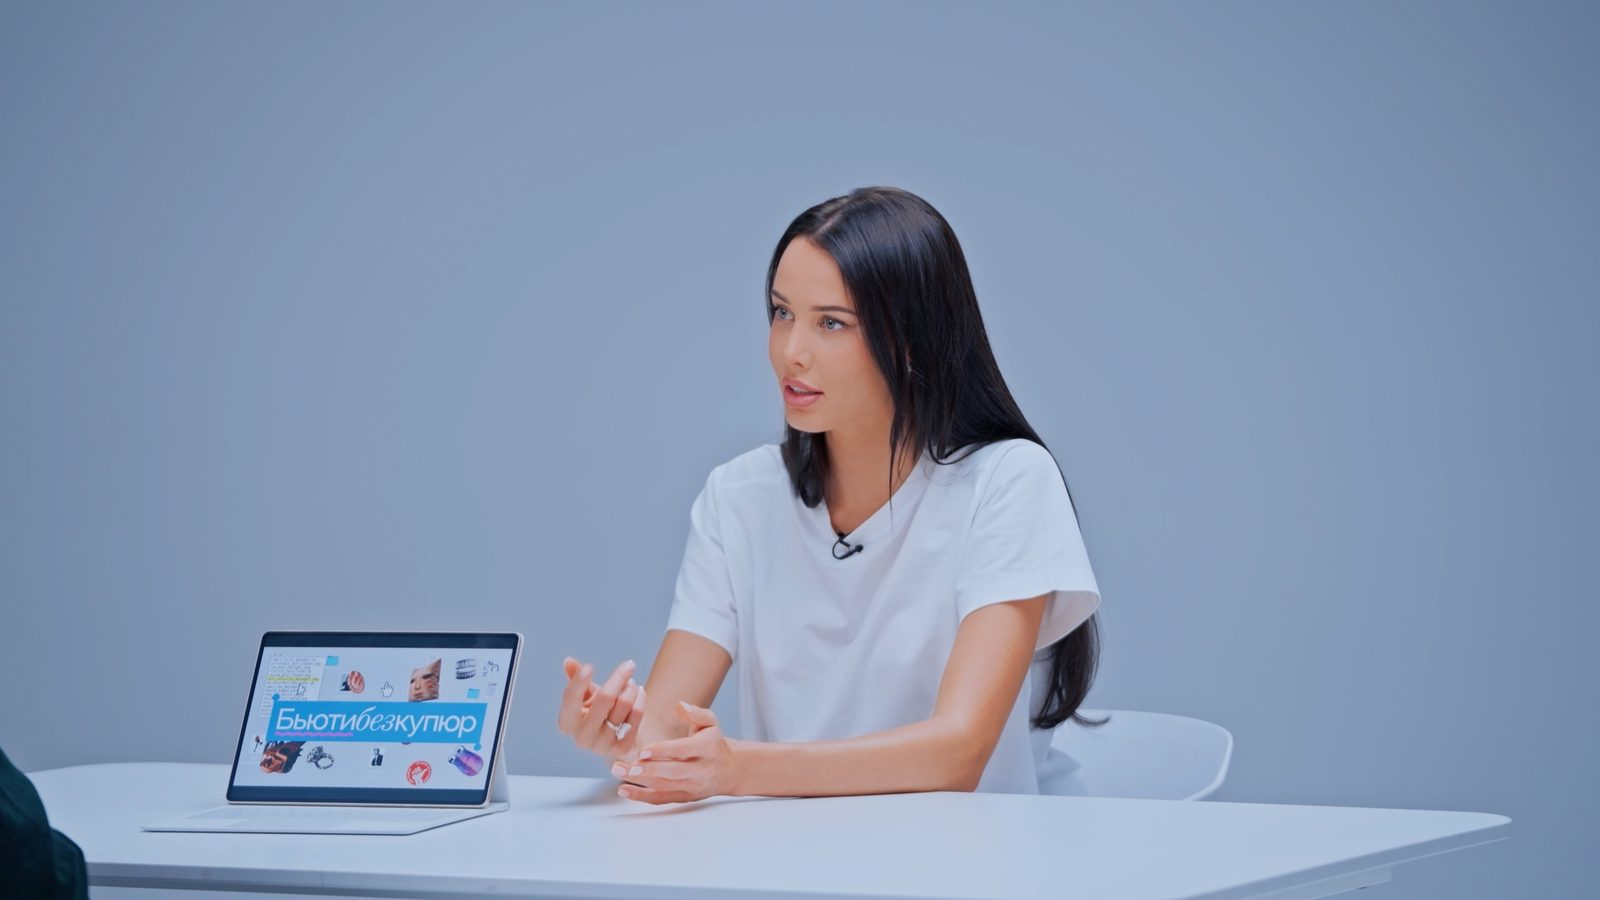
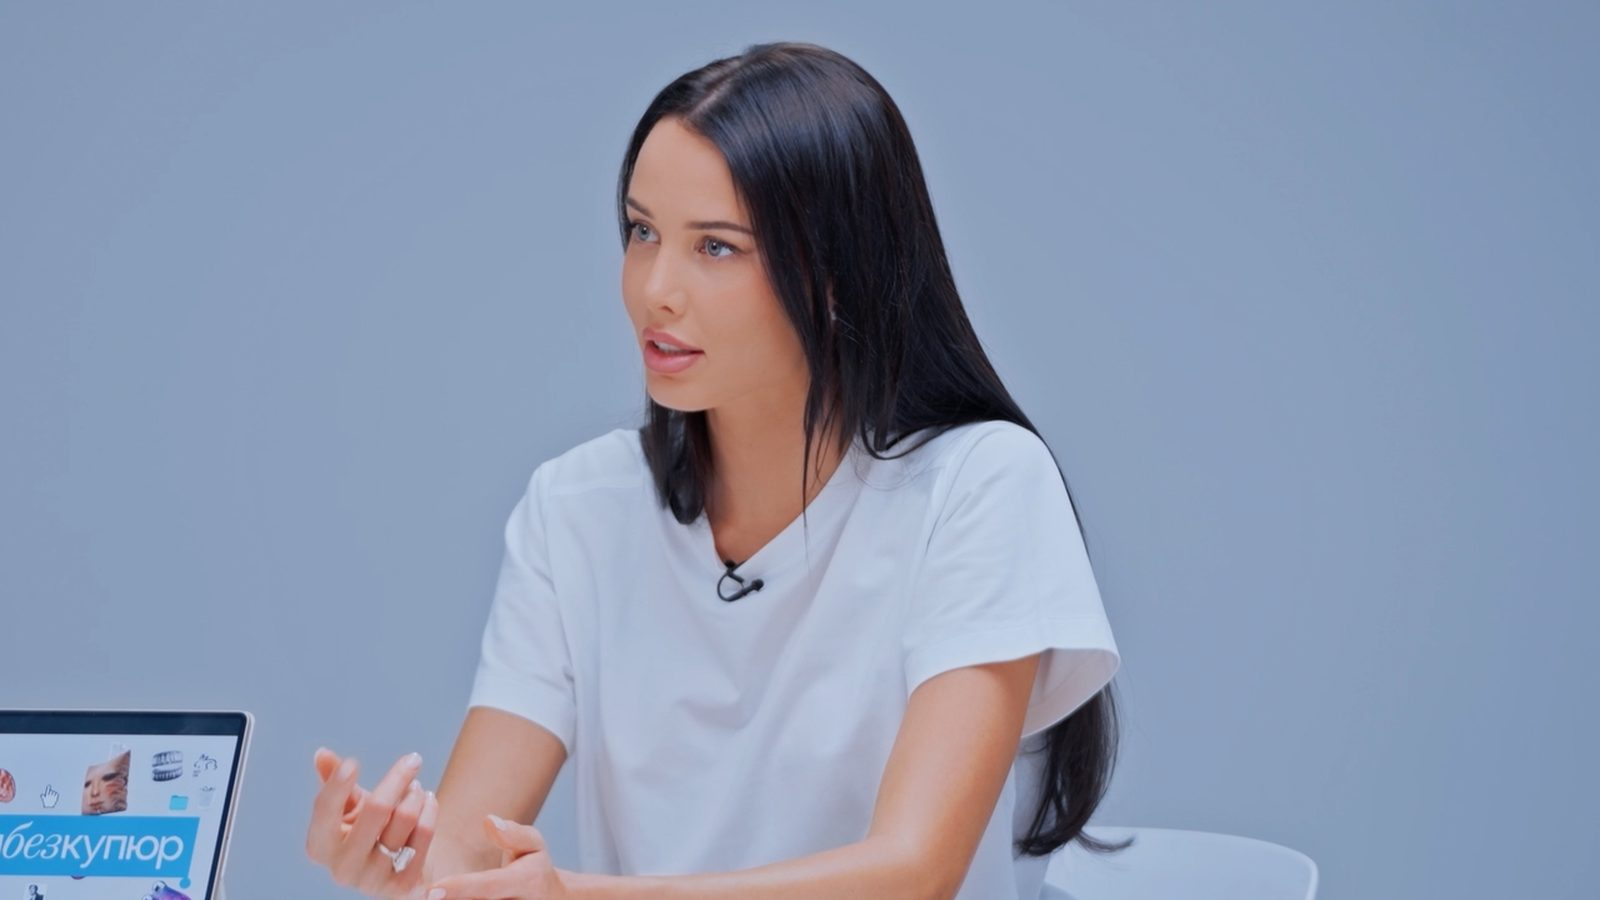
Бьюти без купюр: обложка крупнее, героиня ближе к верхнему краю
Claude-Session: https://claude.ai/code/session_01Qo9VwUVFzJqu7E8YznFKai

Changed region(s): [[0.0, 0.0311, 0.9375, 1.0], [0.0, 0.0, 0.0625, 0.1867]]

diff --git a/work/beauty-bez-kupyur/index.html b/work/beauty-bez-kupyur/index.html
@@ -34,7 +34,7 @@
 <p class="cat">03 · YouTube</p>
 <h1>Бьюти без купюр</h1>
 </section>
-<div class="wrap"><div class="player" data-src="https://www.youtube-nocookie.com/embed/B_NFsDjrGR0?rel=0&amp;modestbranding=1&amp;autoplay=1" data-title="Бьюти без купюр"><button class="poster" type="button" aria-label="Смотреть: Бьюти без купюр"><img src="../../assets/img/beauty.jpg?v=cf421d6c" alt="" decoding="async"><img class="alt" src="../../assets/img/beauty-color.jpg?v=1676d3a8" alt="" decoding="async"><span class="play" aria-hidden="true"><svg viewBox="0 0 24 24"><path d="M8 5.5v13l11-6.5z"/></svg></span></button><noscript><iframe src="https://www.youtube-nocookie.com/embed/B_NFsDjrGR0?rel=0&amp;modestbranding=1" title="Бьюти без купюр" allow="autoplay; fullscreen; picture-in-picture; encrypted-media; gyroscope; accelerometer; clipboard-write; screen-wake-lock" allowfullscreen></iframe></noscript></div></div>
+<div class="wrap"><div class="player" data-src="https://www.youtube-nocookie.com/embed/B_NFsDjrGR0?rel=0&amp;modestbranding=1&amp;autoplay=1" data-title="Бьюти без купюр"><button class="poster" type="button" aria-label="Смотреть: Бьюти без купюр"><img src="../../assets/img/beauty.jpg?v=4f3ebfbc" alt="" decoding="async"><img class="alt" src="../../assets/img/beauty-color.jpg?v=631a6614" alt="" decoding="async"><span class="play" aria-hidden="true"><svg viewBox="0 0 24 24"><path d="M8 5.5v13l11-6.5z"/></svg></span></button><noscript><iframe src="https://www.youtube-nocookie.com/embed/B_NFsDjrGR0?rel=0&amp;modestbranding=1" title="Бьюти без купюр" allow="autoplay; fullscreen; picture-in-picture; encrypted-media; gyroscope; accelerometer; clipboard-write; screen-wake-lock" allowfullscreen></iframe></noscript></div></div>
 <section class="wrap">
 
 <nav class="pn" aria-label="Соседние проекты">

diff --git a/index.html b/index.html
@@ -106,7 +106,7 @@ ENERGY</span>
 <span class="line" aria-hidden="true"></span>
 </a>
 <a class="card has-cover at-bottom" href="work/beauty-bez-kupyur/">
-<img src="assets/img/beauty.jpg?v=cf421d6c" alt="" loading="lazy" decoding="async"><img class="alt" src="assets/img/beauty-color.jpg?v=1676d3a8" alt="" loading="lazy" decoding="async"><span class="shade" aria-hidden="true"></span><span class="t" aria-hidden="true">БЬЮТИ
+<img src="assets/img/beauty.jpg?v=4f3ebfbc" alt="" loading="lazy" decoding="async"><img class="alt" src="assets/img/beauty-color.jpg?v=631a6614" alt="" loading="lazy" decoding="async"><span class="shade" aria-hidden="true"></span><span class="t" aria-hidden="true">БЬЮТИ
 БЕЗ КУПЮР</span>
 <span class="sr">Бьюти без купюр</span>
 <span class="line" aria-hidden="true"></span>
